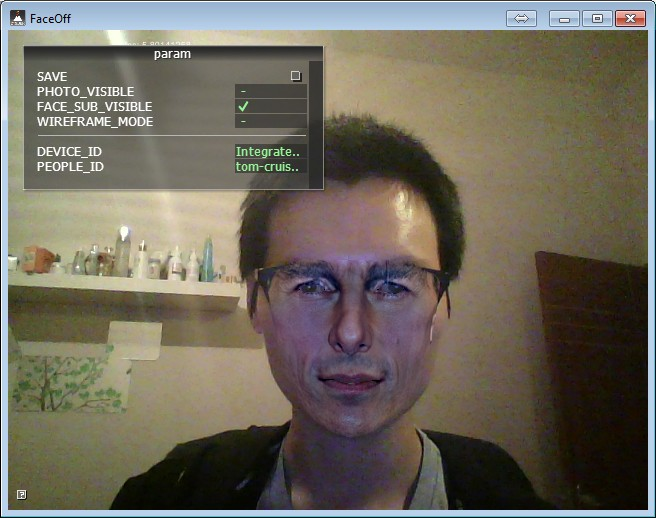
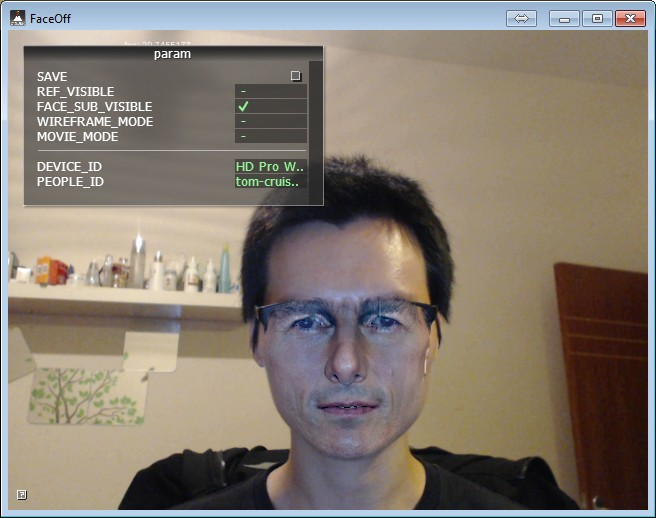
Adding movie mode

diff --git a/src/FaceOffApp.cpp b/src/FaceOffApp.cpp
@@ -11,6 +11,9 @@
 #include "cinder/gl/scoped.h"
 #include "cinder/params/Params.h"
 
+#include "cinder/qtime/QuickTimeGl.h"
+#include "TextureHelper.h"
+
 #include "CinderOpenCV.h"
 #include "ciFaceTracker/ciFacetracker.h"
 #include "MiniConfig.h"
@@ -29,14 +32,14 @@ int CAM_H = 480;
 class FaceOff : public App
 {
 public:
-    void prepareSettings(Settings *settings)
+    static void prepareSettings(Settings *settings)
     {
         readConfig();
 
         settings->setWindowSize(APP_W, APP_H);
         settings->setFrameRate(60.0f);
         settings->setFullScreen(false);
-        settings->setTitle("FaceOff. CRE Imagination");
+        settings->setTitle("face-switcher");
     }
 
     void	keyUp(KeyEvent event)
@@ -105,19 +108,25 @@ private:
     shared_ptr<ciFaceTracker> mOfflineTracker;
     gl::TextureRef mPhotoTex;
 
+    qtime::MovieSurfaceRef		mMovie;
+
     //
     vector<Capture::DeviceRef>  mDevices;
     vector<string>              mDeviceNames;
-    int         mDeviceId;
     CaptureRef		mCapture;
 
-    int         mPeopleId;
     vector<string>              mPeopleNames;
 
     params::InterfaceGlRef mParam;
 
+    gl::TextureRef mRefTex;
+    gl::TextureRef mRenderedRefTex;
     gl::FboRef     mSrcFbo, mMaskFbo;
     Clone       mClone;
+
+    //  param
+    int         mDeviceId;
+    int         mPeopleId;
 };
 
 void FaceOff::setup()
@@ -191,6 +200,49 @@ void FaceOff::setup()
 
 void FaceOff::update()
 {
+    if (MOVIE_MODE)
+    {
+        if (!mMovie)
+        {
+            fs::path moviePath = getAssetPath(MOVIE_PATH);
+            try {
+                // load up the movie, set it to loop, and begin playing
+                mMovie = qtime::MovieSurface::create(moviePath);
+                mMovie->setLoop();
+                mMovie->play();
+                mRefTex.reset();
+                mRenderedRefTex.reset();
+            }
+            catch (ci::Exception &exc) {
+                console() << "Exception caught trying to load the movie from path: " << moviePath << ", what: " << exc.what() << std::endl;
+                mMovie.reset();
+            }
+        }
+        else
+        {
+            if (mMovie->checkNewFrame())
+            {
+                auto surface = mMovie->getSurface();
+                if (!mRefTex)
+                {
+                    mRefTex = gl::Texture2d::create(*surface, gl::Texture::Format().loadTopDown());
+                }
+                else
+                {
+                    mRefTex->update(*surface);
+                }
+            }
+        }
+    }
+    else
+    {
+        if (mMovie)
+        {
+            mMovie.reset();
+        }
+        mRefTex = mPhotoTex;
+    }
+
     if (mDeviceId != DEVICE_ID)
     {
         mDeviceId = DEVICE_ID;
@@ -217,7 +269,7 @@ void FaceOff::update()
         ImageSourceRef img = loadImage(loadAsset("people/" + mPeopleNames[PEOPLE_ID]));
         if (img)
         {
-            mPhotoTex = gl::Texture::create(img, gl::Texture::Format().loadTopDown());
+            mRefTex = mPhotoTex = gl::Texture::create(img, gl::Texture::Format().loadTopDown());
         }
         mOfflineTracker->update(toOcv(img));
 
@@ -259,26 +311,30 @@ void FaceOff::update()
             mFaceMesh.appendPosition(vec3(mOnlineTracker.getImagePoint(i), 0));
         }
 
-        if (FACE_SUB_VISIBLE)
+        if (FACE_SUB_VISIBLE && mRefTex)
         {
             //gl::setMatricesWindow(getWindowSize(), false);
             // TODO: merge these two passes w/ MRTs
             {
-                gl::ScopedFramebuffer fbo(mMaskFbo);
-                gl::clear(ColorA::black(), false);
-                mPhotoTex->unbind();
-                gl::draw(mFaceMesh);
-            }
-
-            {
                 gl::ScopedFramebuffer fbo(mSrcFbo);
                 gl::ScopedGlslProg glsl(gl::getStockShader(gl::ShaderDef().texture()));
-                gl::ScopedTextureBind t0(mPhotoTex, 0);
+                gl::ScopedTextureBind t0(mRefTex, 0);
                 gl::clear(ColorA::black(), false);
                 gl::draw(mFaceMesh);
+                mRenderedRefTex = mSrcFbo->getColorTexture();
             }
 
-            mClone.update(mSrcFbo->getColorTexture(), mCaptureTex, mMaskFbo->getColorTexture());
+            if (!MOVIE_MODE)
+            {
+                {
+                    gl::ScopedFramebuffer fbo(mMaskFbo);
+                    gl::clear(ColorA::black(), false);
+                    mRefTex->unbind();
+                    gl::draw(mFaceMesh);
+                }
+
+                mClone.update(mRenderedRefTex, mCaptureTex, mMaskFbo->getColorTexture());
+            }
         }
     }
 }
@@ -298,16 +354,23 @@ void FaceOff::draw()
     {
         gl::ScopedModelMatrix modelMatrix;
         gl::scale(APP_W / (float)CAM_W, APP_H / (float)CAM_H);
-        mClone.draw();
+        if (MOVIE_MODE)
+        {
+            if (mRenderedRefTex) gl::draw(mRenderedRefTex);
+        }
+        else
+        {
+            mClone.draw();
+        }
     }
     else
     {
         gl::draw(mCaptureTex, getWindowBounds());
     }
 
-    if (PHOTO_VISIBLE)
+    if (REF_VISIBLE)
     {
-        gl::draw(mPhotoTex);
+        gl::draw(mRefTex);
     }
 
     gl::drawStringCentered("fps: " + toString(getAverageFps()), vec2(150, 10));
@@ -323,7 +386,7 @@ void FaceOff::draw()
         gl::scale(APP_W / (float)CAM_W, APP_H / (float)CAM_H);
         gl::draw(mOnlineTracker.getImageMesh());
 
-        if (PHOTO_VISIBLE)
+        if (REF_VISIBLE)
         {
             gl::draw(mOfflineTracker->getImageMesh());
         }
@@ -334,4 +397,4 @@ void FaceOff::draw()
     mParam->draw();
 }
 
-CINDER_APP(FaceOff, RendererGl)
+CINDER_APP(FaceOff, RendererGl, &FaceOff::prepareSettings)
